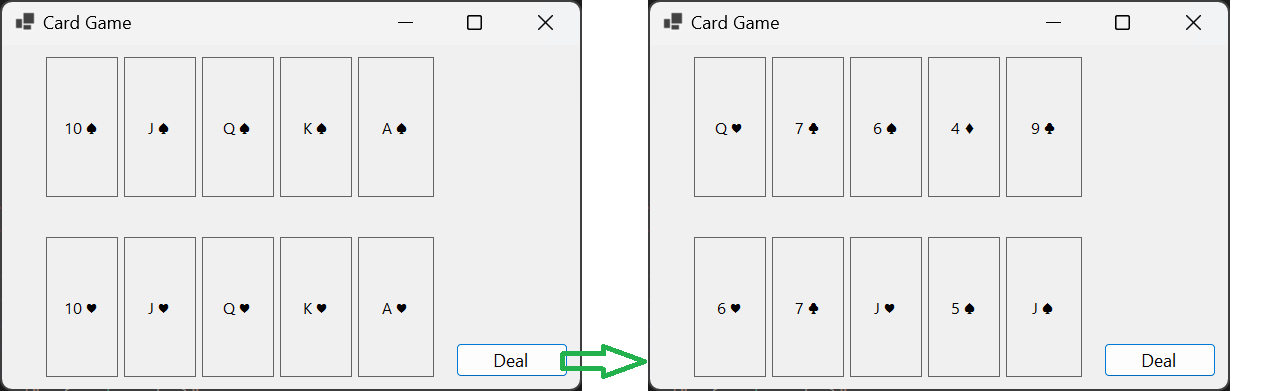
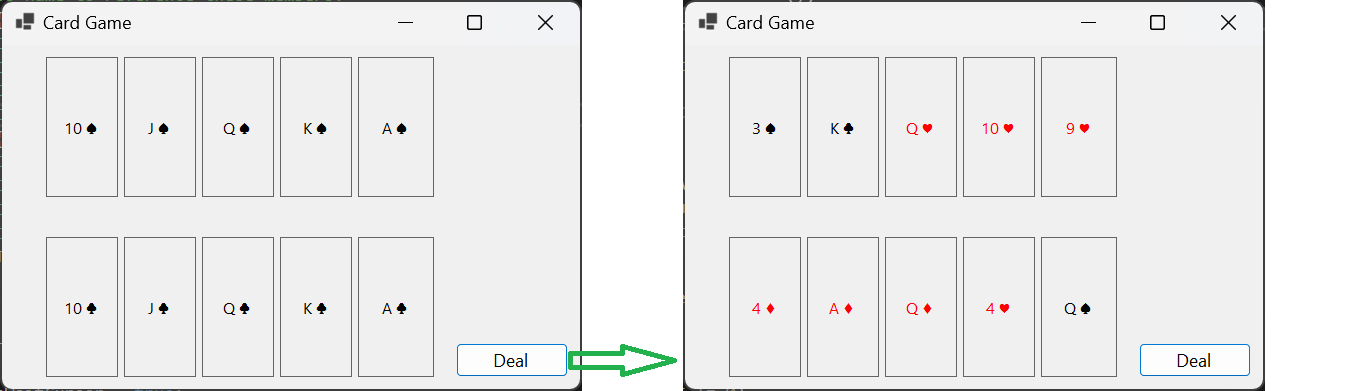
Fixed indexing error

diff --git a/card-game-00/MainForm.cs b/card-game-00/MainForm.cs
@@ -1,5 +1,6 @@
 using System;
 using System.Collections.Generic;
+using System.Diagnostics;
 using System.Drawing;
 using System.Linq;
 using System.Threading.Tasks;
@@ -23,14 +24,13 @@ namespace card_game_00
             labelHandA3.Text = $"Q {Card.Spades}";
             labelHandA4.Text = $"K {Card.Spades}";
             labelHandA5.Text = $"A {Card.Spades}";
-            labelHandB1.Text = $"10 {Card.Hearts}";
-            labelHandB2.Text = $"J {Card.Hearts}";
-            labelHandB3.Text = $"Q {Card.Hearts}";
-            labelHandB4.Text = $"K {Card.Hearts}";
-            labelHandB5.Text = $"A {Card.Hearts}";
+            labelHandB1.Text = $"10 {Card.Clubs}";
+            labelHandB2.Text = $"J {Card.Clubs}";
+            labelHandB3.Text = $"Q {Card.Clubs}";
+            labelHandB4.Text = $"K {Card.Clubs}";
+            labelHandB5.Text = $"A {Card.Clubs}";
             buttonDeal.Click += dealTheCards;
         }
-
         private async void dealTheCards(object sender, EventArgs e)
         {
             buttonDeal.Refresh(); UseWaitCursor = true;
@@ -38,19 +38,34 @@ namespace card_game_00
             await DeckInstance.Shuffle();
             // Now we need the instance of the Desk to get the
             // cards one-by-one so use the property we declared.
-            labelHandA1.Text = DeckInstance.Dequeue().ToString();
-            labelHandA2.Text = DeckInstance.Dequeue().ToString();
-            labelHandA3.Text = DeckInstance.Dequeue().ToString();
-            labelHandA4.Text = DeckInstance.Dequeue().ToString();
-            labelHandA5.Text = DeckInstance.Dequeue().ToString();
-            labelHandB1.Text = DeckInstance.Dequeue().ToString();
-            labelHandB2.Text = DeckInstance.Dequeue().ToString();
-            labelHandB3.Text = DeckInstance.Dequeue().ToString();
-            labelHandB4.Text = DeckInstance.Dequeue().ToString();
-            labelHandB5.Text = DeckInstance.Dequeue().ToString();
+            setCard(labelHandA1, DeckInstance.Dequeue());
+            setCard(labelHandA2, DeckInstance.Dequeue());
+            setCard(labelHandA3, DeckInstance.Dequeue());
+            setCard(labelHandA4, DeckInstance.Dequeue());
+            setCard(labelHandA5, DeckInstance.Dequeue());
+            setCard(labelHandB1, DeckInstance.Dequeue());
+            setCard(labelHandB2, DeckInstance.Dequeue());
+            setCard(labelHandB3, DeckInstance.Dequeue());
+            setCard(labelHandB4, DeckInstance.Dequeue());
+            setCard(labelHandB5, DeckInstance.Dequeue());
             UseWaitCursor = false;
             // Dum hack to make sure the cursor redraws.
             Cursor.Position = Point.Add(Cursor.Position, new Size(1,1));
+        }
+        private void setCard(Label label, Card card)
+        {
+            label.Text = card.ToString();
+            switch (card.CardSuit)
+            {
+                case CardSuit.Hearts:
+                case CardSuit.Diamonds:
+                    label.ForeColor = Color.Red;
+                    break;
+                case CardSuit.Spades:
+                case CardSuit.Clubs:
+                    label.ForeColor = Color.Black;
+                    break;
+            }
         }
     }
     public enum CardValue
@@ -109,7 +124,7 @@ namespace card_game_00
     public class Deck : Queue<Card>
     {
         // Instantiate Random ONE time (not EVERY time).
-        private readonly Random _rando = new Random();
+        private static Random _rando = new Random();
         private readonly Card[] _unshuffled;
         public Deck()
         {
@@ -122,16 +137,22 @@ namespace card_game_00
                 }
             }
             _unshuffled = tmp.ToArray();
+            var distinct = _unshuffled.Distinct().Count();
+            Debug.Assert(distinct == 52, "Oops there are duplicate cards.");
         }
         public async Task Shuffle()
         {
             Clear();
             List<int> sequence = Enumerable.Range(0, 52).ToList();
-            while(sequence.Count != 0)
+            while (sequence.Count != 0)
             {
                 int nextRand = _rando.Next(0, sequence.Count());
-                Enqueue(_unshuffled[nextRand]);
+                Enqueue(_unshuffled[sequence[nextRand]]);
                 sequence.RemoveAt(nextRand);
+#if DEBUG
+                var dups = this.GroupBy(_ => _.ToString()).Where(_=>_.Count() > 1).ToDictionary(_ => _.Key, _ => _.ToArray());
+                Debug.Assert(!dups.Any(), "Oops there are duplicate cards.");
+#endif
             }
             // Spin a wait cursor as a visual indicator that "something is happening".
             await Task.Delay(TimeSpan.FromMilliseconds(500)); 

diff --git a/readme.md b/readme.md
@@ -16,14 +16,13 @@ In your [post](https://stackoverflow.com/q/74744618/5438626) you ask how to "add
             labelHandA3.Text = $"Q {Card.Spades}";
             labelHandA4.Text = $"K {Card.Spades}";
             labelHandA5.Text = $"A {Card.Spades}";
-            labelHandB1.Text = $"10 {Card.Hearts}";
-            labelHandB2.Text = $"J {Card.Hearts}";
-            labelHandB3.Text = $"Q {Card.Hearts}";
-            labelHandB4.Text = $"K {Card.Hearts}";
-            labelHandB5.Text = $"A {Card.Hearts}";
+            labelHandB1.Text = $"10 {Card.Clubs}";
+            labelHandB2.Text = $"J {Card.Clubs}";
+            labelHandB3.Text = $"Q {Card.Clubs}";
+            labelHandB4.Text = $"K {Card.Clubs}";
+            labelHandB5.Text = $"A {Card.Clubs}";
             buttonDeal.Click += dealTheCards;
         }
-
         private async void dealTheCards(object sender, EventArgs e)
         {
             buttonDeal.Refresh(); UseWaitCursor = true;
@@ -31,19 +30,34 @@ In your [post](https://stackoverflow.com/q/74744618/5438626) you ask how to "add
             await DeckInstance.Shuffle();
             // Now we need the instance of the Desk to get the
             // cards one-by-one so use the property we declared.
-            labelHandA1.Text = DeckInstance.Dequeue().ToString();
-            labelHandA2.Text = DeckInstance.Dequeue().ToString();
-            labelHandA3.Text = DeckInstance.Dequeue().ToString();
-            labelHandA4.Text = DeckInstance.Dequeue().ToString();
-            labelHandA5.Text = DeckInstance.Dequeue().ToString();
-            labelHandB1.Text = DeckInstance.Dequeue().ToString();
-            labelHandB2.Text = DeckInstance.Dequeue().ToString();
-            labelHandB3.Text = DeckInstance.Dequeue().ToString();
-            labelHandB4.Text = DeckInstance.Dequeue().ToString();
-            labelHandB5.Text = DeckInstance.Dequeue().ToString();
+            setCard(labelHandA1, DeckInstance.Dequeue());
+            setCard(labelHandA2, DeckInstance.Dequeue());
+            setCard(labelHandA3, DeckInstance.Dequeue());
+            setCard(labelHandA4, DeckInstance.Dequeue());
+            setCard(labelHandA5, DeckInstance.Dequeue());
+            setCard(labelHandB1, DeckInstance.Dequeue());
+            setCard(labelHandB2, DeckInstance.Dequeue());
+            setCard(labelHandB3, DeckInstance.Dequeue());
+            setCard(labelHandB4, DeckInstance.Dequeue());
+            setCard(labelHandB5, DeckInstance.Dequeue());
             UseWaitCursor = false;
             // Dum hack to make sure the cursor redraws.
             Cursor.Position = Point.Add(Cursor.Position, new Size(1,1));
+        }
+        private void setCard(Label label, Card card)
+        {
+            label.Text = card.ToString();
+            switch (card.CardSuit)
+            {
+                case CardSuit.Hearts:
+                case CardSuit.Diamonds:
+                    label.ForeColor = Color.Red;
+                    break;
+                case CardSuit.Spades:
+                case CardSuit.Clubs:
+                    label.ForeColor = Color.Black;
+                    break;
+            }
         }
     }
 
